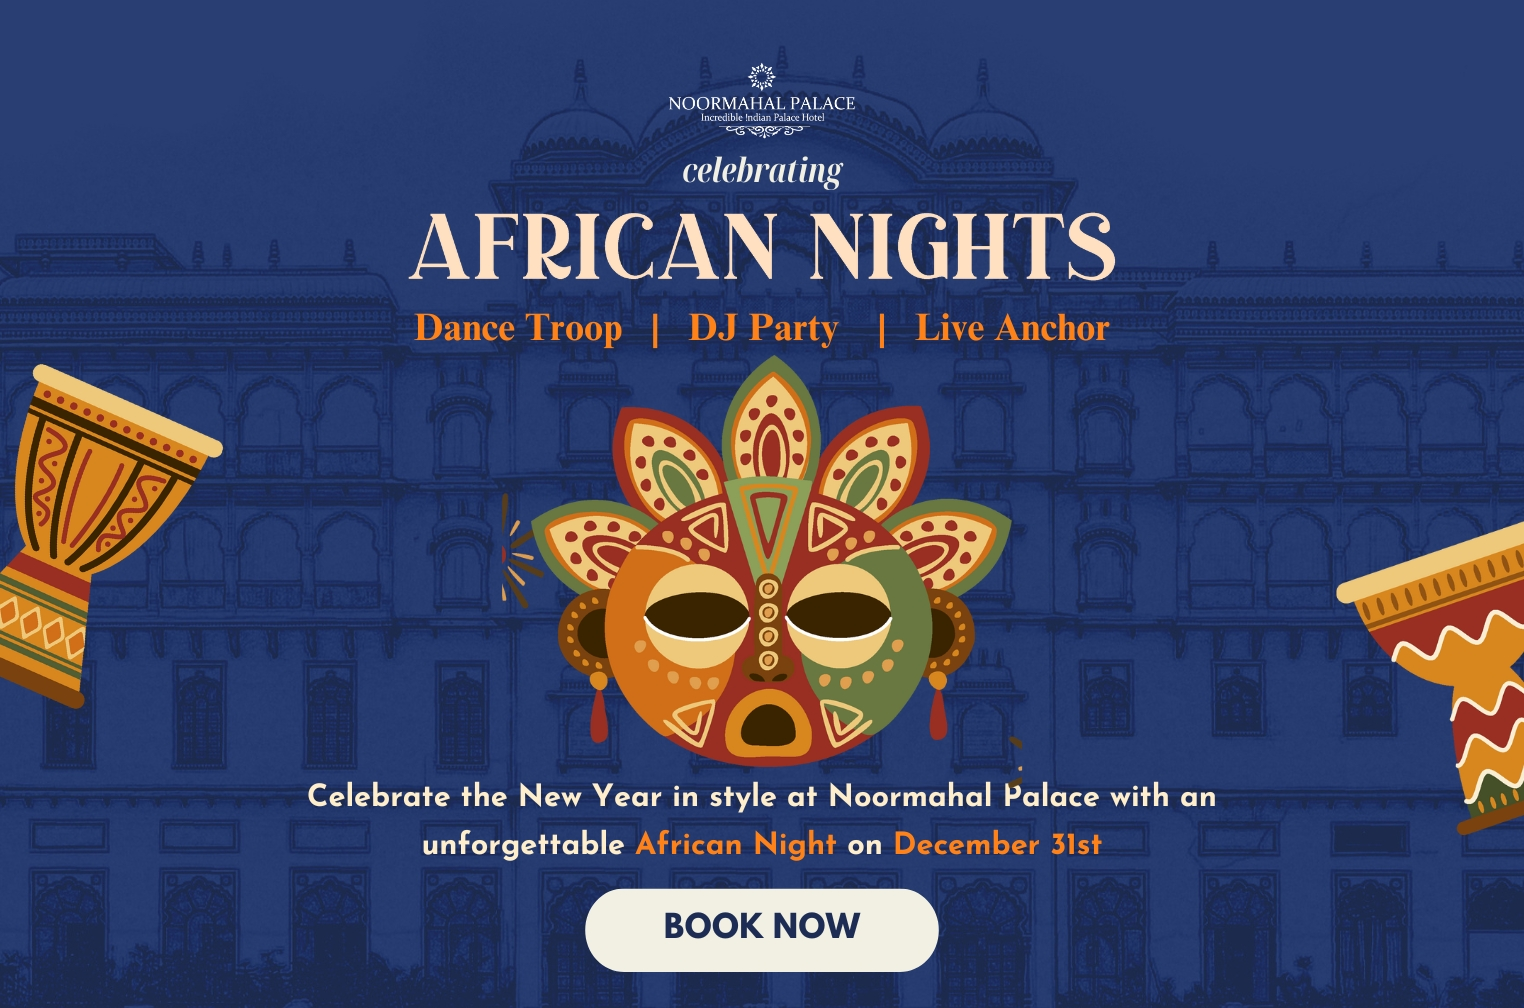
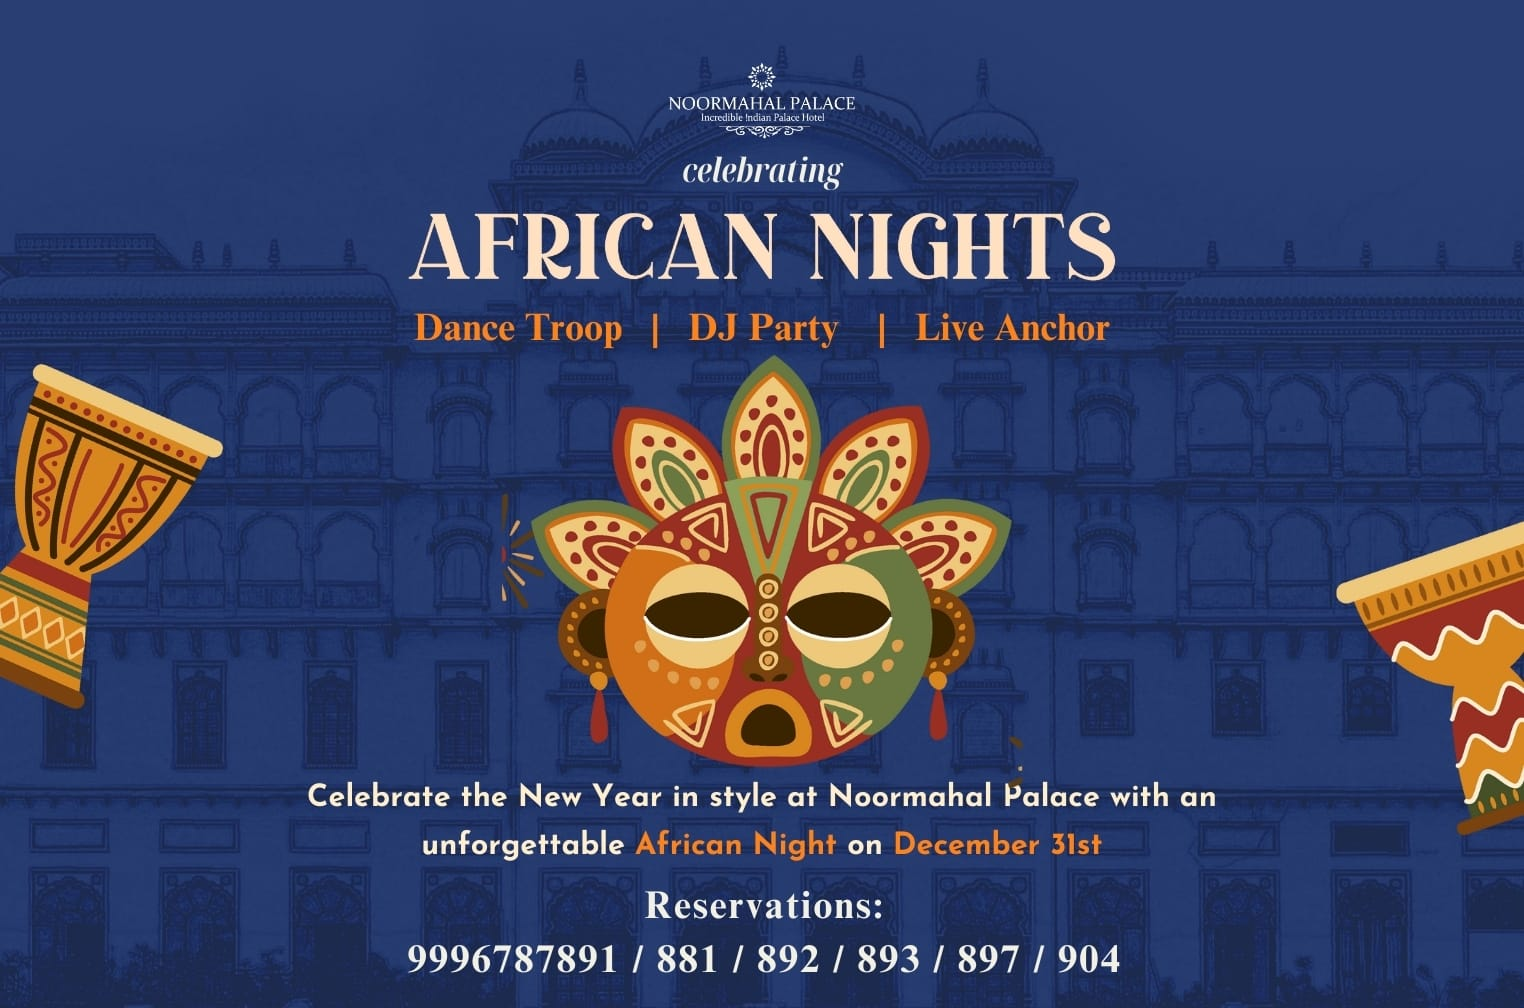
added popup image

diff --git a/src/components/pageComponents/storyPage/Popup.jsx b/src/components/pageComponents/storyPage/Popup.jsx
@@ -1,7 +1,7 @@
 import Link from 'next/link';
 import React from 'react';
 import { MdClose } from 'react-icons/md';
-import image from '../../../../public/assets/images/promotion/christmasBuffet.jpg';
+import image from '../../../../public/assets/images/promotion/african-night.jpg';
 import Image from 'next/image';
 function Popup({ showPopUp, setShowPopUp }) {
   // const handleClick = () =>{
@@ -16,15 +16,15 @@ function Popup({ showPopUp, setShowPopUp }) {
       onClick={() => setShowPopUp(!showPopUp)}
     >
       <div className='position-relative'>
-        {/* <Link href={'/promotions'}> */}
-        <Image
-          src={image}
-          quality={75}
-          alt='independence-image'
-          className='shadow popup-image object-fit-cover'
-          style={{ border: '8px solid #FFFAF0' }}
-        />
-        {/* </Link> */}
+        <Link href={'/promotions'}>
+          <Image
+            src={image}
+            quality={75}
+            alt='independence-image'
+            className='shadow popup-image object-fit-cover'
+            style={{ border: '8px solid #FFFAF0' }}
+          />
+        </Link>
         <div
           className=' position-absolute z-3 p-1 shadow  '
           style={{
